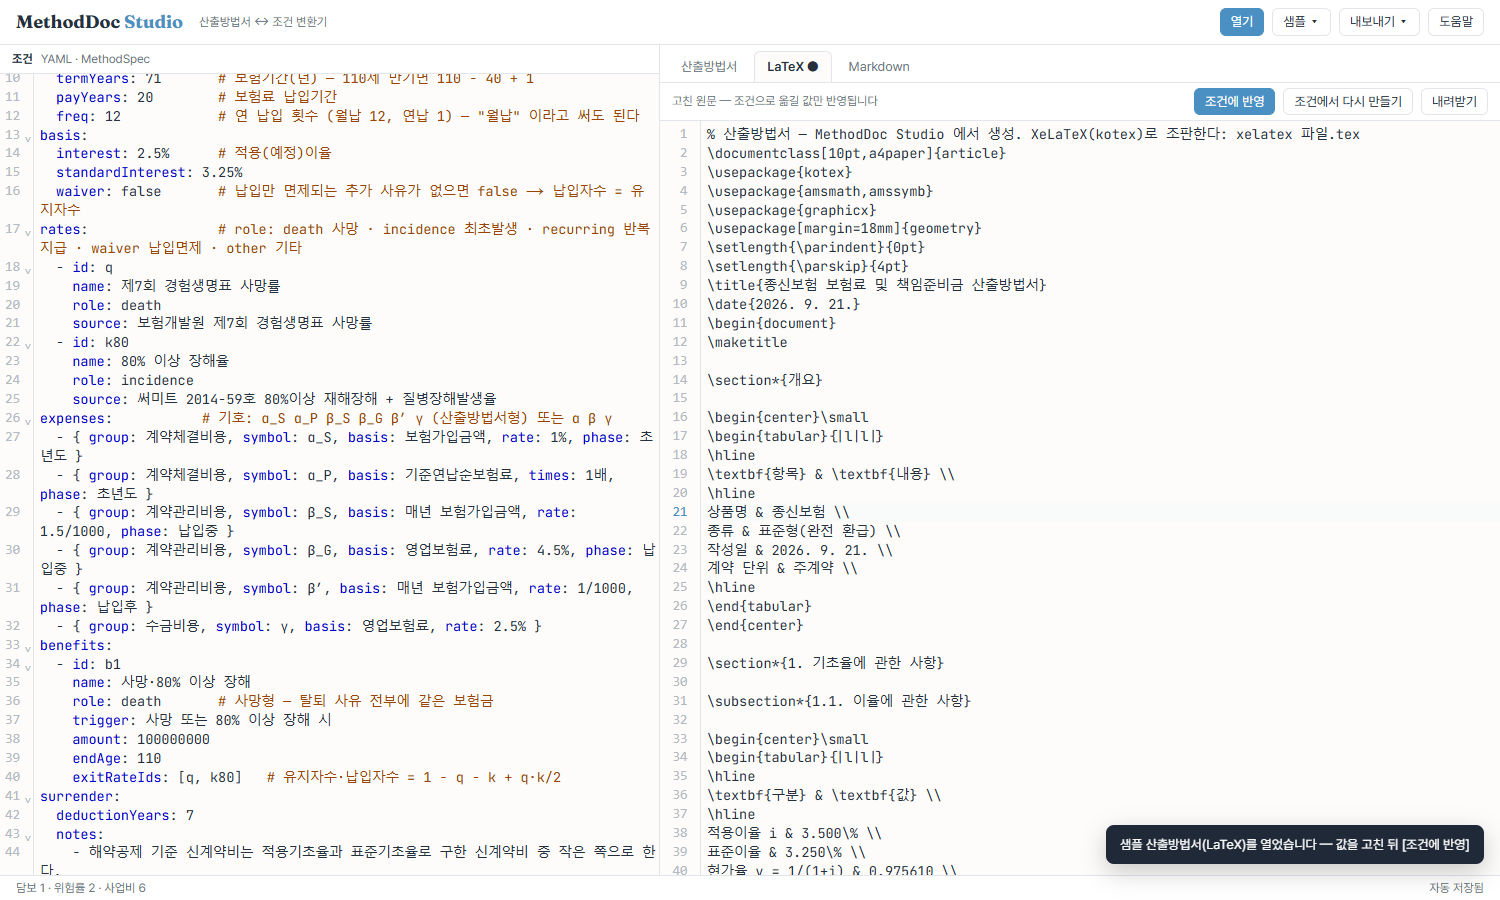
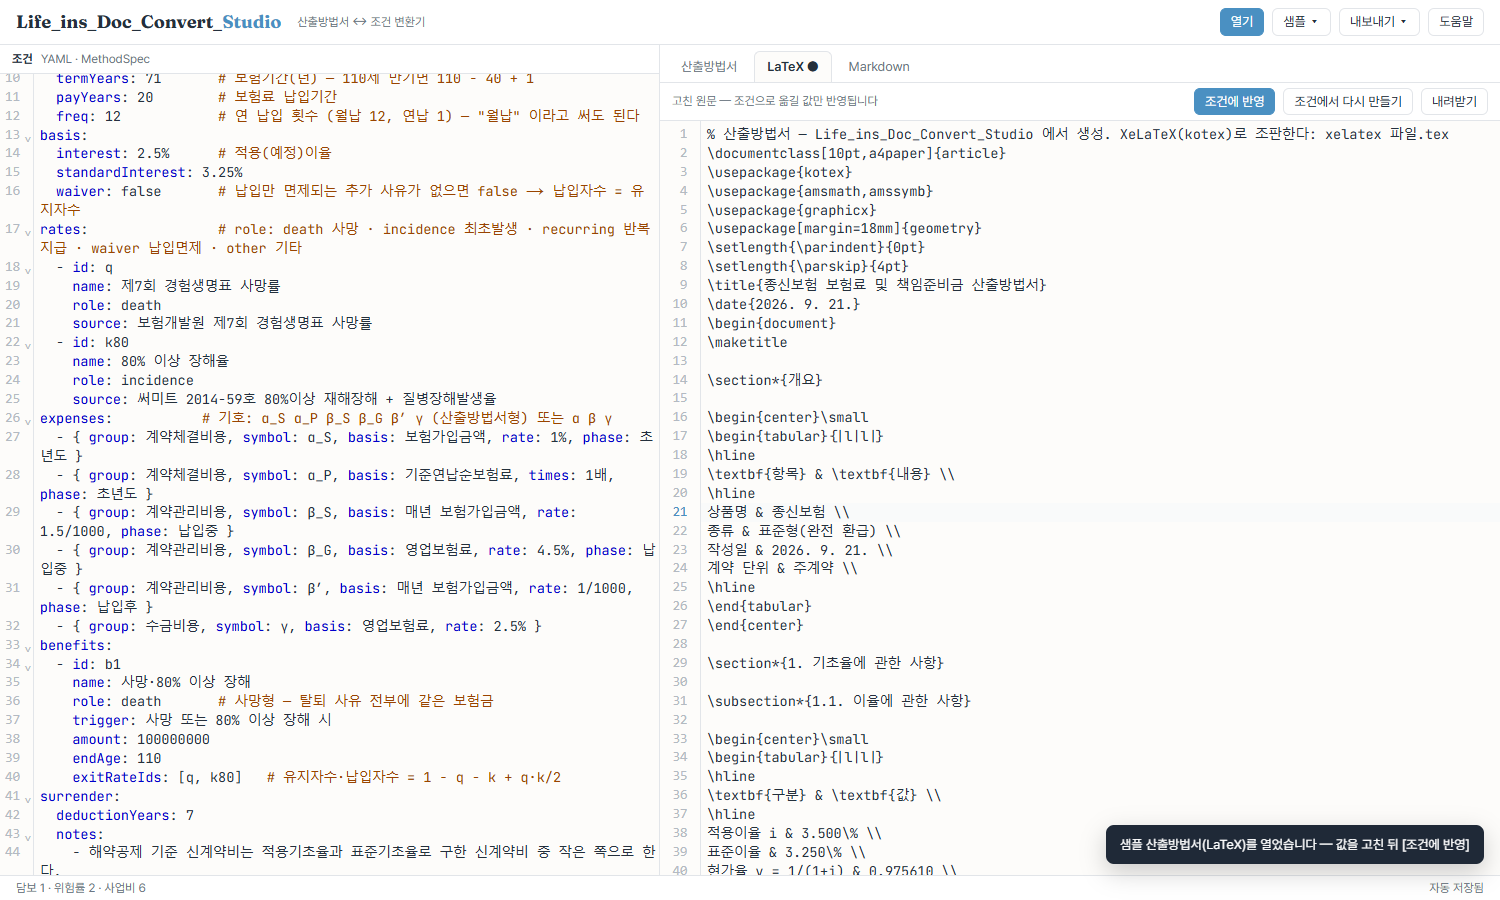
앱 이름을 폴더 이름 Life_ins_Doc_Convert_Studio 로 변경
- package 이름 life_ins_doc_convert_studio, 창 제목·화면 머리·도움말, README·CLAUDE.md·설계 문서,
  내보낸 .tex 머리 주석, 시험 스크립트
- 자동 저장 키 life_ins_doc_convert_studio:yaml — 예전 키(methoddoc:yaml)에 저장된 조건은 처음 열 때 옮겨 온다
- 문서 스크린샷을 새 이름으로 다시 찍음
- lib/methoddoc · MethodSpec · parseMethodDoc 은 flexible_insurance 와 함께 쓰는 공용 모듈·형식 이름이라 유지
- scripts/e2e.cjs 가 lint(no-require-imports)에 걸리던 것 정리

검증: typecheck · lint · 테스트 51 통과 · build · 브라우저 14항목 통과

Claude-Session: https://claude.ai/code/session_013MwWrtGxAixrsKFapjow6e

Changed region(s): [[0.552, 0.1244, 0.9507, 0.1556], [0.0, 0.0, 0.276, 0.0311]]

diff --git a/components/Studio.tsx b/components/Studio.tsx
@@ -19,8 +19,17 @@ type Tab = "doc" | "latex" | "markdown" | "original";
 interface Buf { text: string; dirty: boolean }
 type Toast = { text: string; kind: "ok" | "warn" | "err" } | null;
 
-const STORE = "methoddoc:yaml";
-const readStore = () => { try { return localStorage.getItem(STORE); } catch { return null; } };
+const STORE = "life_ins_doc_convert_studio:yaml";
+const OLD_STORE = "methoddoc:yaml";            // 앱 이름을 바꾸기 전 자동 저장 키 — 한 번 옮겨 온다
+const readStore = () => {
+  try {
+    const now = localStorage.getItem(STORE);
+    if (now !== null) return now;
+    const old = localStorage.getItem(OLD_STORE);
+    if (old !== null) { localStorage.setItem(STORE, old); localStorage.removeItem(OLD_STORE); }
+    return old;
+  } catch { return null; }
+};
 const writeStore = (v: string) => { try { localStorage.setItem(STORE, v); } catch { /* 사생활 모드 등 — 자동 저장만 빠진다 */ } };
 
 /** 메뉴 항목을 고르면 <details> 를 닫는다 (그대로 두면 열린 목록이 편집기를 가린다) */
@@ -149,7 +158,7 @@ export default function Studio() {
     <div className="flex h-screen flex-col">
       {/* ── 머리 ── */}
       <header className="no-print flex items-center gap-2 border-b border-border bg-white px-4 py-2">
-        <h1 className="mr-2 font-title text-lg font-bold text-foreground">MethodDoc <span className="text-primary">Studio</span></h1>
+        <h1 className="mr-2 font-title text-lg font-bold text-foreground">Life_ins_Doc_Convert_<span className="text-primary">Studio</span></h1>
         <span className="mr-auto hidden text-xs text-muted-foreground md:inline">산출방법서 ↔ 조건 변환기</span>
         <button className="btn-primary" onClick={() => fileInput.current?.click()}>열기</button>
         <input ref={fileInput} type="file" accept={ACCEPT} className="hidden" onChange={(e) => { const f = e.target.files?.[0]; if (f) void open(f); e.target.value = ""; }} />
@@ -246,7 +255,7 @@ function Help({ onClose }: { onClose: () => void }) {
   return (
     <div className="modal-back no-print" onClick={onClose}>
       <div className="modal" onClick={(e) => e.stopPropagation()}>
-        <h2>MethodDoc Studio 사용법</h2>
+        <h2>Life_ins_Doc_Convert_Studio 사용법</h2>
         <ol>
           <li><b>조건 → 산출방법서</b> 왼쪽 조건(YAML)을 고치면 오른쪽 산출방법서가 바로 바뀝니다. 유지자수·납입자수·보험료·준비금 식은 조건에서 자동으로 만듭니다.</li>
           <li><b>산출방법서 → 조건</b> PDF·DOCX·HWP·HWPX·TEX·MD 를 [열기] 하거나 창에 끌어다 놓으면 조건으로 옮깁니다. 값 옆 주석이 원문 위치·확신도이고, [원문] 탭에서 근거 줄을 확인할 수 있습니다.</li>

diff --git a/app/layout.tsx b/app/layout.tsx
@@ -9,7 +9,7 @@ const jetbrains = JetBrains_Mono({ variable: "--font-jetbrains", subsets: ["lati
 const pretendard = localFont({ src: "../public/fonts/PretendardVariable.woff2", variable: "--font-pretendard", weight: "45 920", display: "swap" });
 
 export const metadata: Metadata = {
-  title: "MethodDoc Studio — 산출방법서 ↔ 조건 변환기",
+  title: "Life_ins_Doc_Convert_Studio — 산출방법서 ↔ 조건 변환기",
   description: "조건(YAML·MethodSpec)을 입력하면 산출방법서가, 산출방법서(PDF·HWP·DOCX·LaTeX)를 넣으면 조건이 만들어집니다.",
 };
 

diff --git a/lib/methoddoc/tex.ts b/lib/methoddoc/tex.ts
@@ -86,7 +86,7 @@ function cellTex(c: string | number): string {
 
 export function docToLatex(sections: DocSection[], title: string, today = new Date()): string {
   const L: string[] = [
-    "% 산출방법서 — MethodDoc Studio 에서 생성. XeLaTeX(kotex)로 조판한다: xelatex 파일.tex",
+    "% 산출방법서 — Life_ins_Doc_Convert_Studio 에서 생성. XeLaTeX(kotex)로 조판한다: xelatex 파일.tex",
     "\\documentclass[10pt,a4paper]{article}",
     "\\usepackage{kotex}",
     "\\usepackage{amsmath,amssymb}",

diff --git a/docs/설계.md b/docs/설계.md
@@ -1,4 +1,4 @@
-# MethodDoc Studio 설계 · 연동 · LaTeX 변환 제안
+# Life_ins_Doc_Convert_Studio 설계 · 연동 · LaTeX 변환 제안
 
 ## 1. 왜 따로 떼었나
 
@@ -7,7 +7,7 @@
 **MethodSpec(JSON)** 한 가지로만 주고받는다.
 
 ```
-            ┌──────────── MethodDoc Studio ────────────┐
+            ┌────── Life_ins_Doc_Convert_Studio ───────┐
 PDF·HWP·DOCX │ extract → parse ──► MethodSpec ◄── 조건(YAML) │
 TEX·MD      │                      │                      │
             │     formulas + render ▼                      │

diff --git a/CLAUDE.md b/CLAUDE.md
@@ -1,4 +1,7 @@
-# MethodDoc Studio — 에이전트 지침
+# Life_ins_Doc_Convert_Studio — 에이전트 지침
+
+(2026-09-21 까지 이름은 MethodDoc Studio 였다. `lib/methoddoc/`·`MethodSpec`·`parseMethodDoc` 은 앱 이름이 아니라
+flexible_insurance 와 함께 쓰는 공용 모듈·형식 이름이라 그대로 둔다.)
 
 산출방법서 ↔ 조건 변환 독립 웹앱. 설계: `docs/설계.md`. 서버·DB 없음(localStorage 자동 저장).
 

diff --git a/README.md b/README.md
@@ -1,4 +1,4 @@
-# MethodDoc Studio — 산출방법서 ↔ 조건 변환기
+# Life_ins_Doc_Convert_Studio — 산출방법서 ↔ 조건 변환기
 
 **조건을 넣으면 산출방법서가, 산출방법서를 넣으면 조건이 나오는** 독립 웹앱.
 왼쪽은 조건(YAML), 오른쪽은 그 조건으로 만든 산출방법서다(mdTeX Studio 와 같은 좌우 구성).
